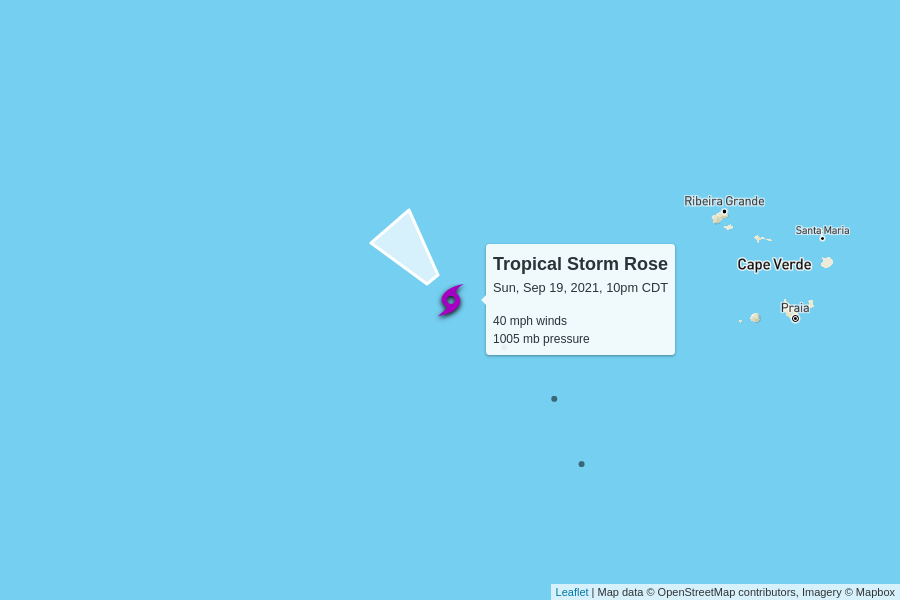
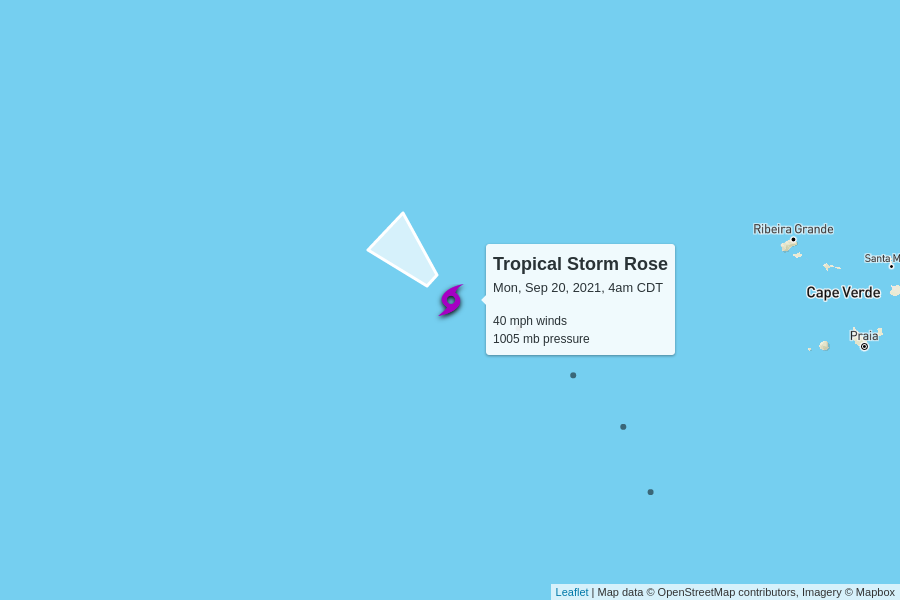
automatic update

diff --git a/docs/index.html b/docs/index.html
@@ -100,7 +100,7 @@
         <td colspan="6" class="storm category-0" >
           <h2>
             Tropical Storm Peter
-            <p class="updated">last updated <span data-time>2021-09-20T03:00:00.000Z</span></p>
+            <p class="updated">last updated <span data-time>2021-09-20T09:00:00.000Z</span></p>
           </h2>
         </td>
       </tr>
@@ -116,11 +116,11 @@
       <tr>
         <td class="spacer"></td>
         <td>50 mph</td>
-        <td>1004 mb</td>
+        <td>1005 mb</td>
         <td>
           14 mph to the west-northwest
           <br/>
-          <span style="display: inline-block; font-size: 1.5em; transform: rotate(295deg);">↑</span>
+          <span style="display: inline-block; font-size: 1.5em; transform: rotate(290deg);">↑</span>
         </td>
         <td><a href="https://raw.githubusercontent.com/mgwalker/atlantic-hurricanes/main/data/csv/AL162021.csv">AL162021.csv</a></td>
         <td><a href="https://www.nhc.noaa.gov/archive/2021/PETER.shtml?">NHC advisories</a></td>
@@ -144,7 +144,7 @@
         <td colspan="6" class="storm category-0" >
           <h2>
             Tropical Storm Rose
-            <p class="updated">last updated <span data-time>2021-09-20T03:00:00.000Z</span></p>
+            <p class="updated">last updated <span data-time>2021-09-20T09:00:00.000Z</span></p>
           </h2>
         </td>
       </tr>
@@ -162,9 +162,9 @@
         <td>40 mph</td>
         <td>1005 mb</td>
         <td>
-          16 mph to the northwest
+          15 mph to the northwest
           <br/>
-          <span style="display: inline-block; font-size: 1.5em; transform: rotate(320deg);">↑</span>
+          <span style="display: inline-block; font-size: 1.5em; transform: rotate(315deg);">↑</span>
         </td>
         <td><a href="https://raw.githubusercontent.com/mgwalker/atlantic-hurricanes/main/data/csv/AL172021.csv">AL172021.csv</a></td>
         <td><a href="https://www.nhc.noaa.gov/archive/2021/ROSE.shtml?">NHC advisories</a></td>
